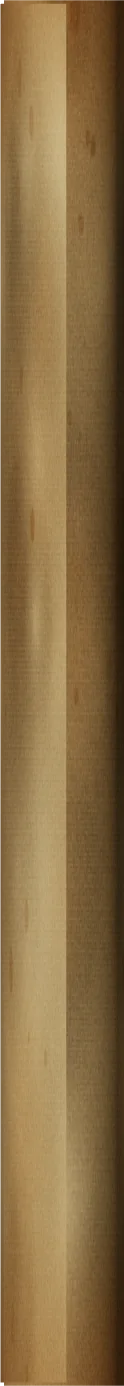
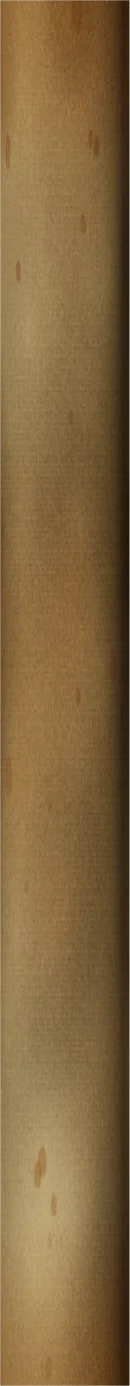
Contact: roll up from the left with the right edge still; no line on the roll; no status text
The roll now forms at the left edge and travels right while the right
edge stays put, ending as the closed scroll at the right; a fresh note
unrolls back to the left. The roll render drops the outer-layer lip that
showed as a vertical line, and the 'Rolling up' / 'Sealing' status text
is gone.

Claude-Session: https://claude.ai/code/session_017duqhLnJj8AB6LNW48U1TW

diff --git a/contact.html b/contact.html
@@ -124,36 +124,46 @@
       // and then moves into the neck together with the 3D note.
       // NOTE_LEN: the closed-scroll image's height in bottle units (the 0.9-long note, drawn tipped so its end shows)
       const NOTE_LEN = 0.927, NOTE_TOP = 0.44, NOTE_TRAVEL = 1.88; // start above the mouth; slide down the bottle
-      let closed = { s: 1, k: 1, cut: 0 };
-      // Closing: the sheet winds up from right to left onto a roll that forms at its left edge and
-      // thickens until it is the closed scroll. Everything turns about that roll, so it stays put.
+      let closed = { s: 1, k: 1, cut: 0, travel: 0 };
+      // Closing: the right edge stays still while a roll forms at the left edge and travels right,
+      // winding the sheet up and thickening until it is the closed scroll at the right edge.
+      // Everything then turns about that closed scroll.
       async function rollUp(unit) {
         const H = scroll.offsetHeight, W = scroll.offsetWidth, rw = roll.offsetWidth;
         const s = (NOTE_LEN * unit) / H;               // closed = the bottle note's size
         const k = Math.max(1, (H * 0.247) / rw);       // the roll thickens to the closed scroll's width (0.247 x its height)
-        const cut = W - rw / 2;                         // the sheet is wound away to the roll's middle
-        closed = { s, k, cut };
-        scroll.style.transformOrigin = `${rw / 2}px 50%`;
-        rolled.style.left = `${rw / 2}px`;
+        const travel = W - rw;                          // the roll's path from the left edge to the right
+        const cut = W - rw / 2;                         // the sheet is wound away up to the roll's middle
+        closed = { s, k, cut, travel };
+        scroll.style.transformOrigin = `${W - rw / 2}px 50%`;
+        rolled.style.left = `${W - rw / 2}px`;
         await Promise.all([
           play(scroll, [{ transform: "none" }, { transform: `scale(${s})` }], 1100),
-          play(sheet, [{ clipPath: "inset(0 0 0 0)" }, { clipPath: `inset(0 ${cut}px 0 0)` }], 950),
-          play(roll, [{ opacity: 0, transform: "scaleX(0.35)" }, { opacity: 1, offset: 0.12 }, { opacity: 1, transform: `scaleX(${k})` }], 950),
+          play(sheet, [{ clipPath: "inset(0 0 0 0)" }, { clipPath: `inset(0 0 0 ${cut}px)` }], 950),
+          play(roll, [
+            { opacity: 0, transform: "translateX(0) scaleX(0.35)" },
+            { opacity: 1, offset: 0.1 },
+            { opacity: 1, transform: `translateX(${travel}px) scaleX(${k})` },
+          ], 950),
         ]);
         await Promise.all([
           play(rolled, [{ opacity: 0 }, { opacity: 1 }], 300, "ease-out"),
-          play(roll, [{ opacity: 1, transform: `scaleX(${k})` }, { opacity: 0, transform: `scaleX(${k})` }], 300),
+          play(roll, [{ opacity: 1, transform: `translateX(${travel}px) scaleX(${k})` }, { opacity: 0, transform: `translateX(${travel}px) scaleX(${k})` }], 300),
         ]);
       }
-      // a fresh scroll: grows from the closed size and unrolls from left to right; the roll is used up
+      // a fresh scroll: grows from the closed size and unrolls back to the left; the roll is used up
       function unroll() {
         scroll.getAnimations({ subtree: true }).forEach((a) => a.cancel());
-        const { s, k, cut } = closed;
+        const { s, k, cut, travel } = closed;
         return Promise.all([
           play(scroll, [{ opacity: 0, transform: `scale(${s})` }, { opacity: 1, offset: 0.25 }, { opacity: 1, transform: "none" }], 1100),
           play(rolled, [{ opacity: 1 }, { opacity: 1, offset: 0.3 }, { opacity: 0 }], 600),
-          play(sheet, [{ clipPath: `inset(0 ${cut}px 0 0)` }, { clipPath: "inset(0 0 0 0)" }], 1150),
-          play(roll, [{ opacity: 1, transform: `scaleX(${k})` }, { opacity: 1, offset: 0.85 }, { opacity: 0, transform: "scaleX(0.35)" }], 1150),
+          play(sheet, [{ clipPath: `inset(0 0 0 ${cut}px)` }, { clipPath: "inset(0 0 0 0)" }], 1150),
+          play(roll, [
+            { opacity: 1, transform: `translateX(${travel}px) scaleX(${k})` },
+            { opacity: 1, offset: 0.88 },
+            { opacity: 0, transform: "translateX(0) scaleX(0.35)" },
+          ], 1150),
         ]).then(() => {
           scroll.getAnimations({ subtree: true }).forEach((a) => a.cancel());
           scroll.style.transformOrigin = rolled.style.left = "";
@@ -208,7 +218,7 @@
         e.preventDefault();
         sendBtn.disabled = true;
         status.className = "scroll-status";
-        status.textContent = "Rolling up your message…";
+        status.textContent = "";
         const sending = send().catch(() => false);
         const shore = window.__shore;
         const animate = shore && !matchMedia("(prefers-reduced-motion: reduce)").matches;
@@ -223,7 +233,6 @@
           const r = scroll.getBoundingClientRect();
           await rollUp(shore.unitAt());
           await shore.bottleTo(r.left + r.width / 2, r.top + r.height * 0.6);
-          status.textContent = "Sealing your bottle…";
           await intoBottle(shore.mouth(), (ms) => shore.insertNote(ms));
           await shore.cork();
           if (!(await sending)) {
